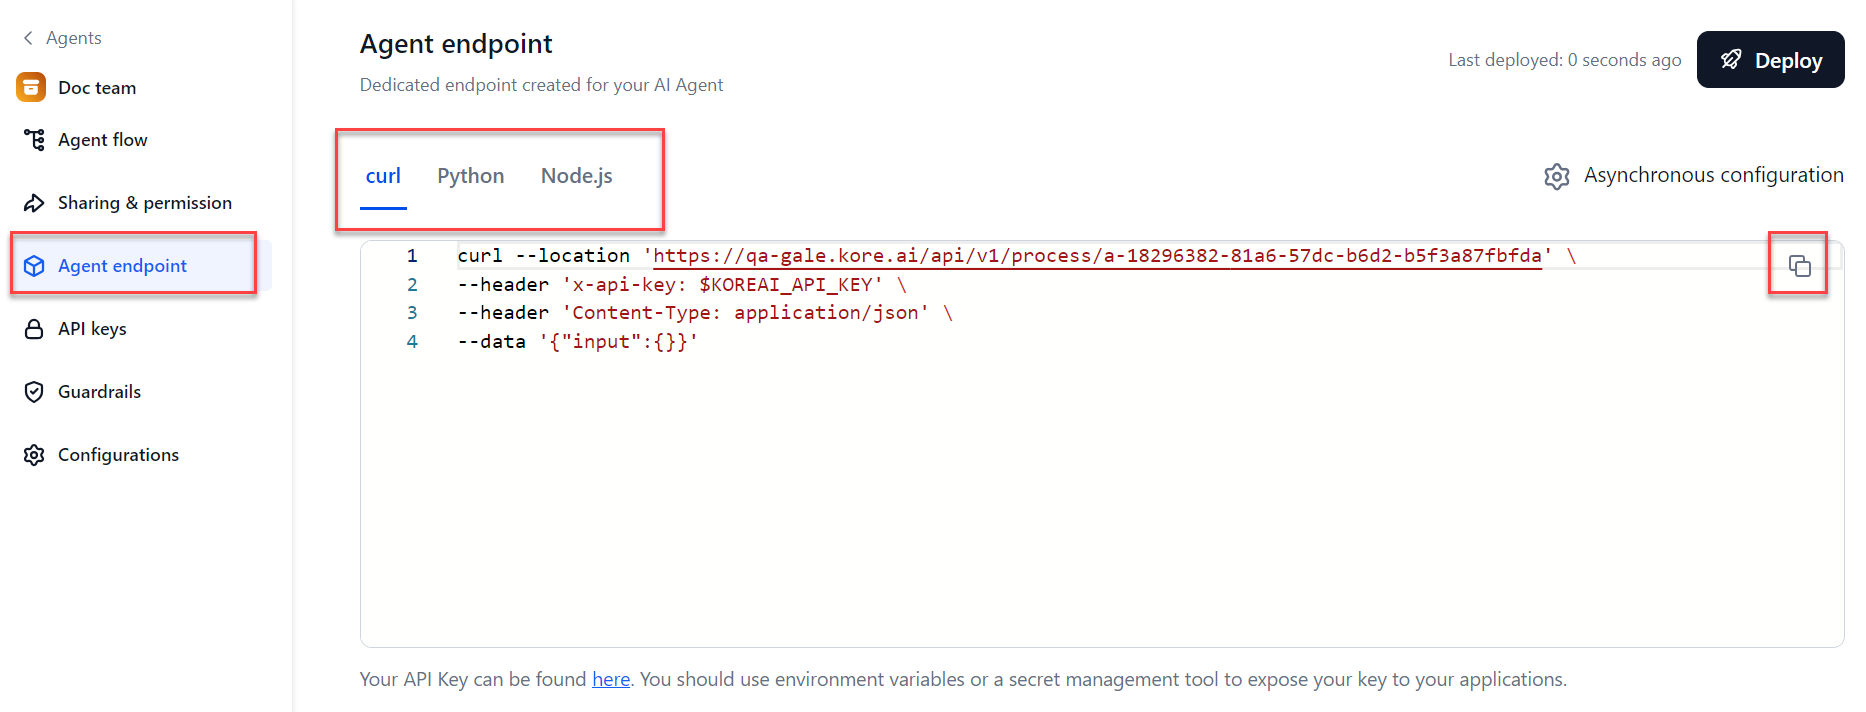
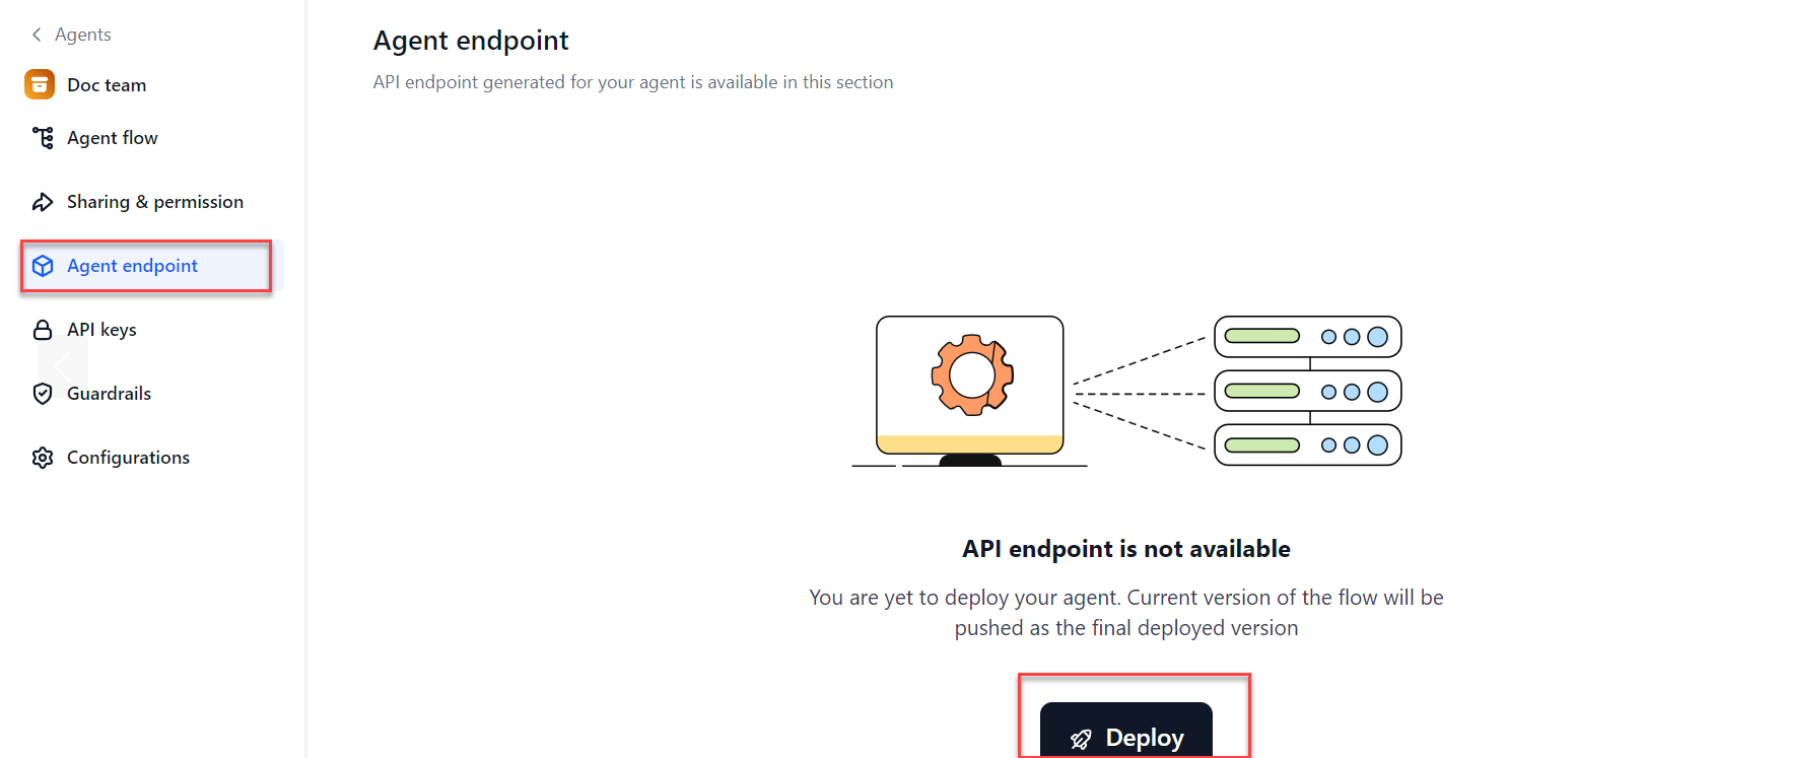
updated the page to include asynchronous mode

diff --git a/docs/gale/agents/deploy-an-agent.md b/docs/gale/agents/deploy-an-agent.md
@@ -1,18 +1,47 @@
 # Deploy an Agent
 
-After completing and testing your agent flow, you can deploy your agent. After the deployment, you can see the dedicated API endpoint created for the agent.
+GALE supports both synchronous and asynchronous modes of agent deployment.
 
-!!! note
+!!! Note:
 
     Before deploying the agent, you must fix any errors or warnings in the Agent Flow.
 
-Steps to deploy an agent and get its endpoint:
+ Steps to deploy an agent and get its endpoint in synchronous mode:
 
 1. Click **Agent endpoint** in the left navigation.  
-<img src="../images/deploy-an-agent.png" alt="Deploy an Agent" title="Deploy an Agent" style="border: 1px solid gray; zoom:80%;">
- 
-2. Click **Deploy**. After the deployment, you can see the dedicated API endpoint created for your agent. The API endpoint is available in the following formats: **curl**, **Python**, and **Node.js**. You can copy the code and use it as needed.  
-<img src="../images/agents-endpoint.png" alt="Agents Endpoint" title="Agents Endpoint" style="border: 1px solid gray; zoom:80%;">
+<img src="../images/agents-endpoint.png" alt="Deployed Version" title="Deployed Version" style="border: 1px solid gray; zoom:80%;">
+
+2. Click **Deploy**. By default, the agent is deployed in Sync (Synchronous) mode. After the deployment, you can see the dedicated API endpoint created for your agent. The API endpoint is available in the following formats: **curl**, **Python**, and **Node.js**. You can copy the code and use it as needed.  
+<img src="../images/sync-agent-endpoint.png" alt="Sync" title="Sync" style="border: 1px solid gray; zoom:80%;">
+
+3. If you want to change the deployment mode to Async (Asynchronous), click the **Async** option on the page and then click **Configure**.  
+<img src="../images/configure-button.png" alt="Configure Button" title="Configure Button" style="border: 1px solid gray; zoom:80%;">
+
+4. In the Configure asynchronous mode dialog, enter the URL of the external application and the access token generated by the application and click **Save**.  
+<img src="../images/configure-asynchronous-mode-popup.png" alt="Configure Asynchronous Mode" title="Configure Asynchronous Mode" style="border: 1px solid gray; zoom:80%;">
+
+5. If you have changed the mode, you must redeploy the agents. Click **Deploy** to do so.  
+<img src="../images/deploy-button.png" alt="Deploy Button" title="Deploy Button" style="border: 1px solid gray; zoom:80%;">
+
+6. Click **Confirm**.  
+<img src="../images/deploy-confirmation.png" alt="Deploy Confirmation" title="Deploy Confirmation" style="border: 1px solid gray; zoom:80%;">
+
+7. The **Async push** and **Async poll** endpoints are generated.  
+<img src="../images/async-push-endpoint.png" alt="Async Push Endpoint" title="Existing Push Endpoint" style="border: 1px solid gray; zoom:80%;">  
+<img src="../images/async-poll-endpoint.png" alt="Async Poll Endpoint" title="Async Poll Endpoint" style="border: 1px solid gray; zoom:80%;">
+
+## Redeploy an Agent for the Changes in the Flow[¶](https://docs.kore.ai/gale/agents/deploy-an-agent/#redeploy-an-agent-for-the-changes-in-the-flow)
+
+The Deployed version of your agent's flow is accessible from the **Agent Flow** page. You can click the **View the Flow** button to view the flow in read-only mode. \
+
+
+<p id="gdcalert9" ><span style="color: red; font-weight: bold">>>>>>  gd2md-html alert: inline image link here (to images/image9.png). Store image on your image server and adjust path/filename/extension if necessary. </span><br>(<a href="#">Back to top</a>)(<a href="#gdcalert10">Next alert</a>)<br><span style="color: red; font-weight: bold">>>>>> </span></p>
+
+
+![alt_text](images/image9.png "image_tooltip")
+
+
+You can change the in-development version of the flow. To redeploy the agent with the updated flow, click the **Deploy** button at the top-right corner of the **Agent endpoint** page. The redeployment doesn't change the agent's endpoint.
 
 ## Redeploy an Agent for the Changes in the Flow 
 
